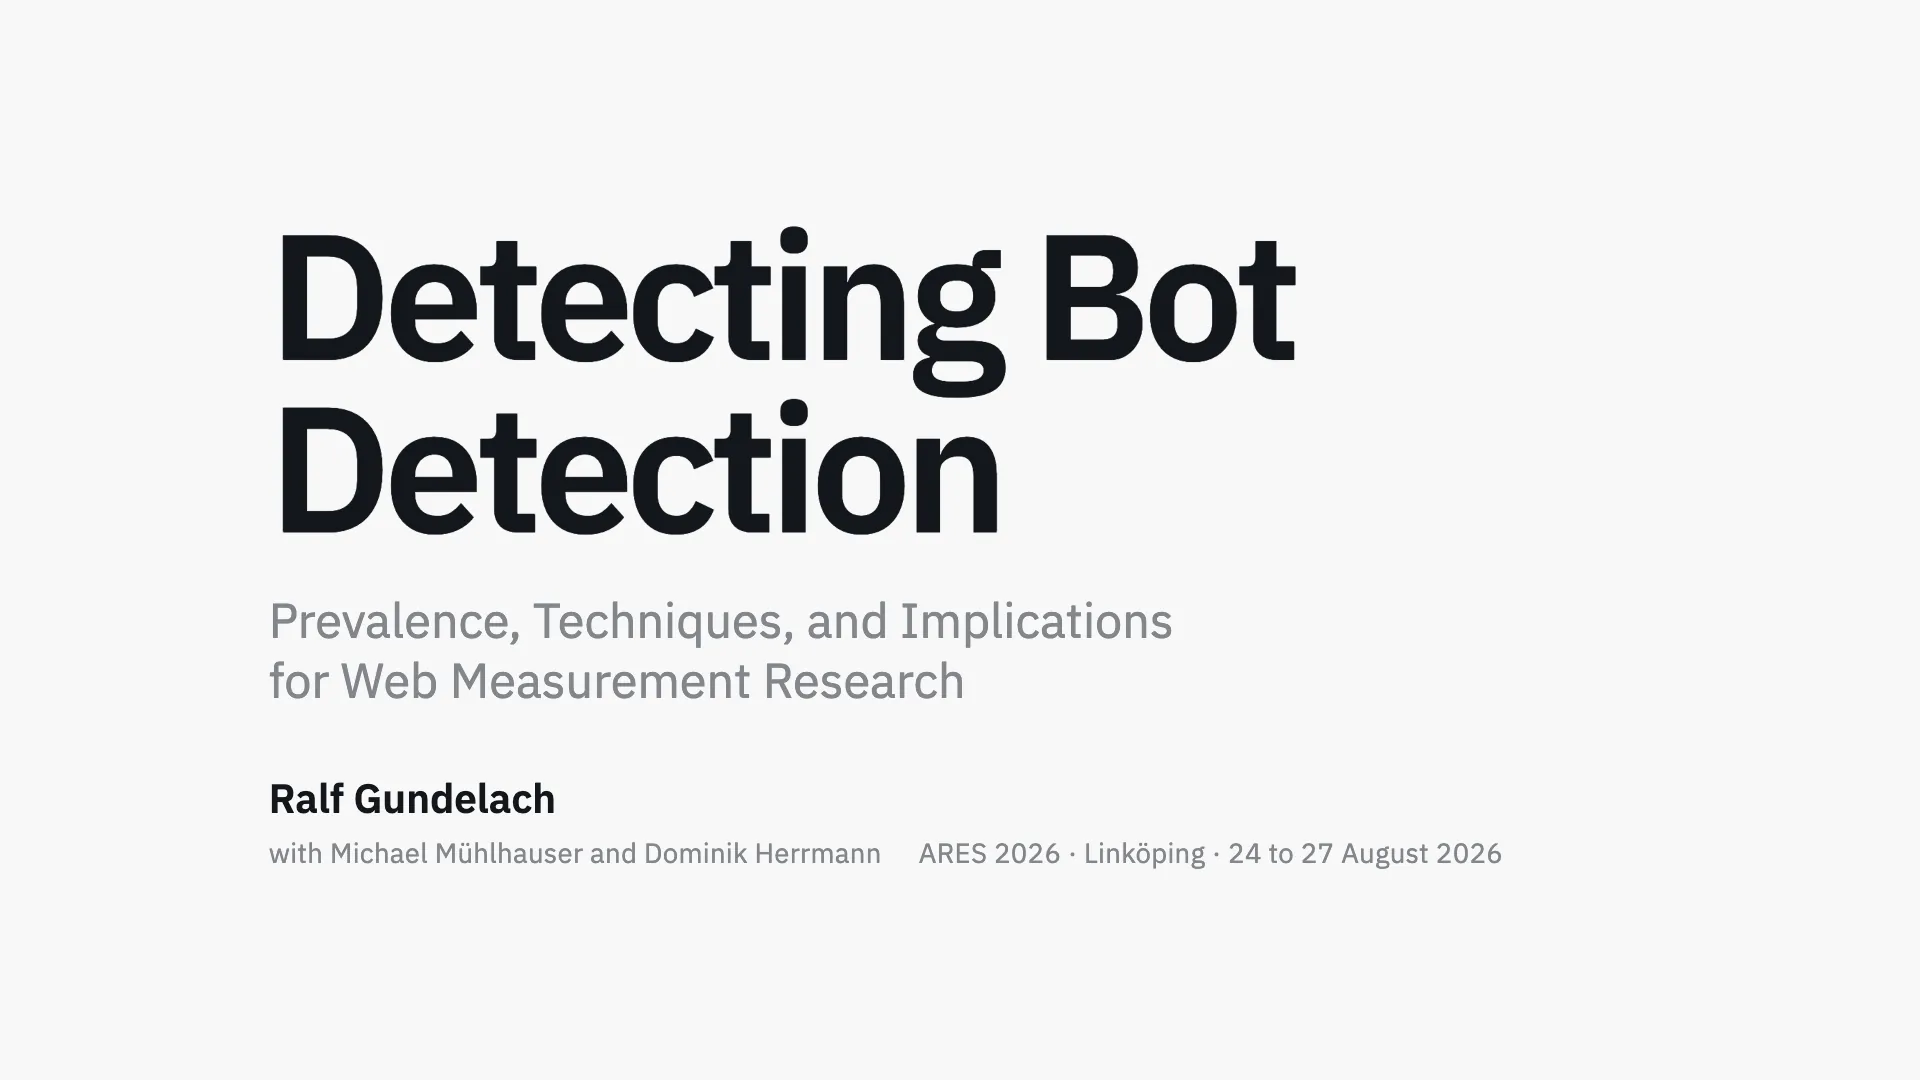
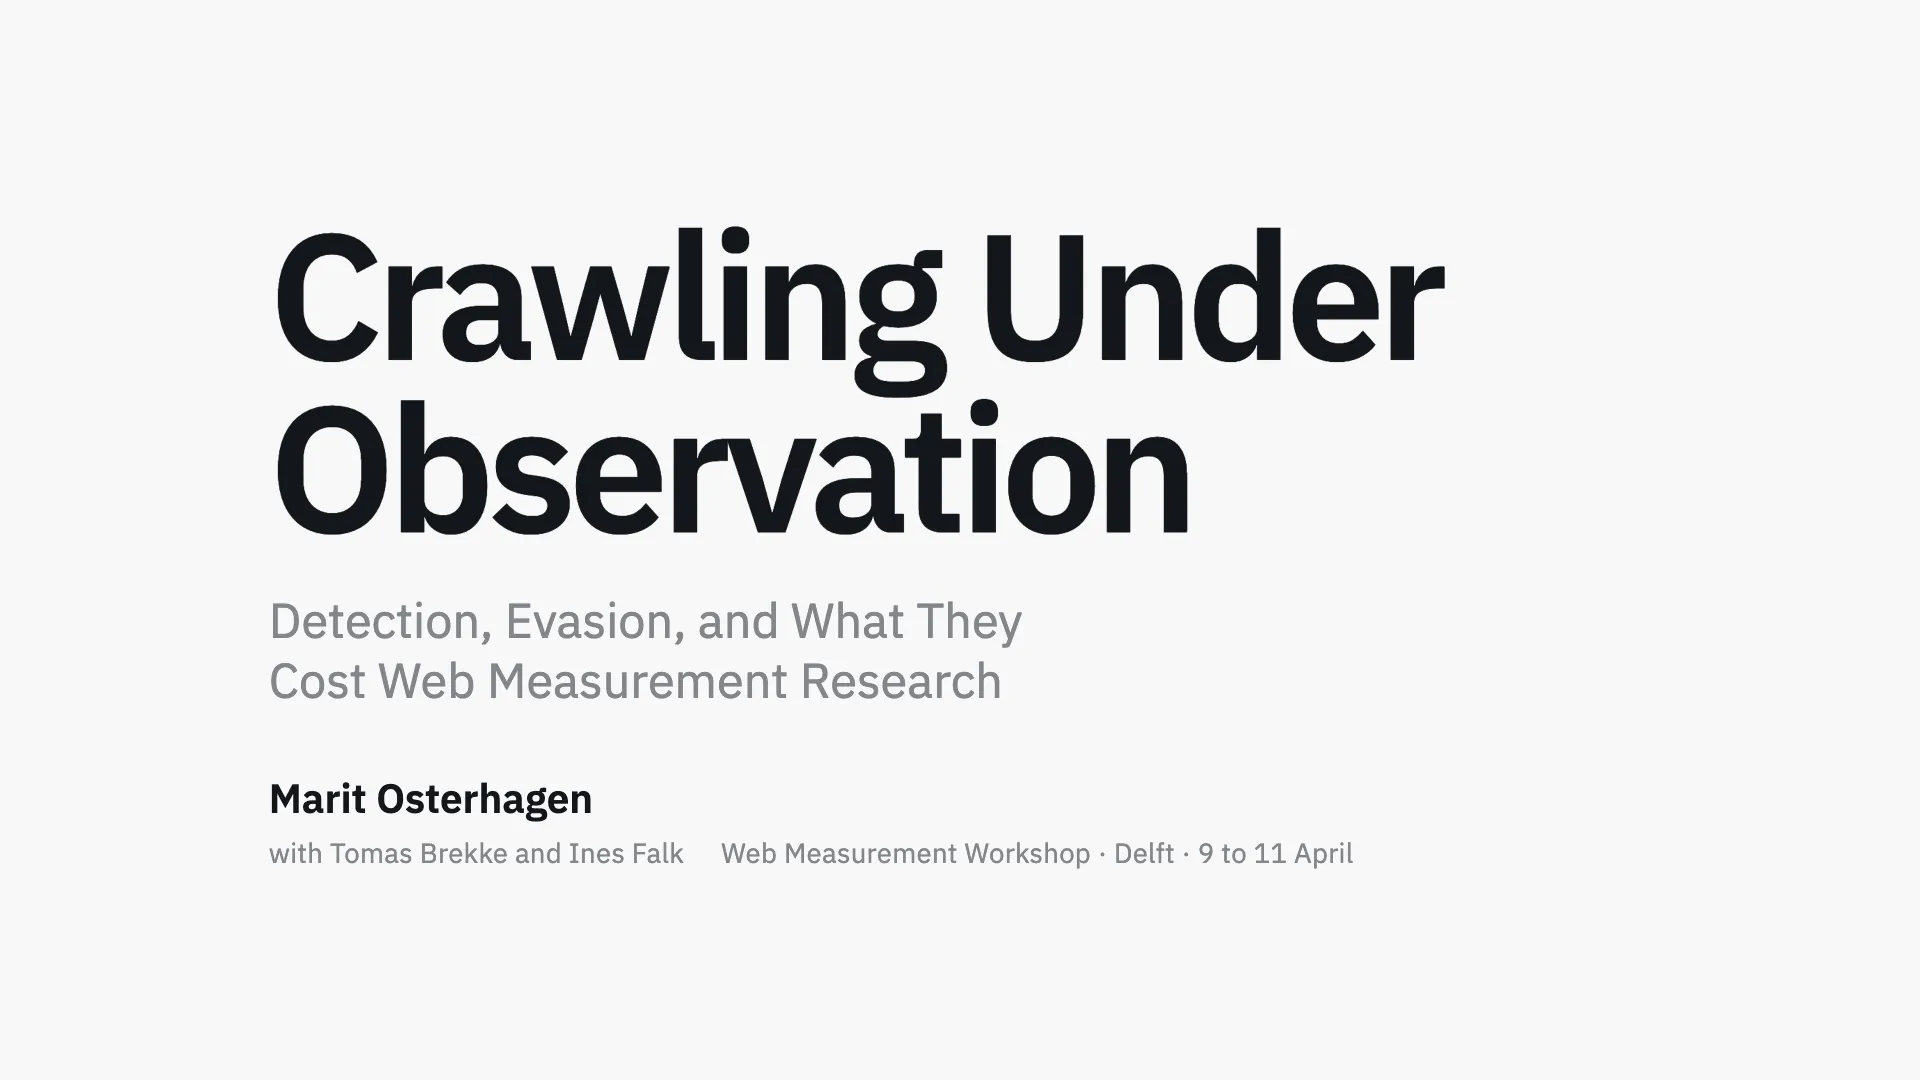
The gallery deck named real people, and the prose around it explained itself to nobody
The cover gallery was shot from a deck carrying a real paper's title and its
three real authors. It is a demo of ten compositions, so the content is
arbitrary and had no reason to be anyone's: the deck is now invented
throughout, and the twelve cover tiles are re-shot. The six divider tiles are
byte-identical, since a divider shows a heading and no credits. The masthead
lede was also a specific fabricated statistic, which read as a finding on a
public page under names that are now fictional; it is a sentence about the
subject instead, with no number in it.

The prose around the gallery kept justifying decisions the reader had not
questioned - "the one question the list asks", "two further settings adjust a
composition rather than replacing it", "a percentage rather than a W:H ratio,
because the shape of the slide is the projector's to decide", "a divider that
can be mistaken for the title slide has failed at the one job it has". All of
it is cut. So is the sentence explaining that the tiles are screenshots taken
by a script at a uniform size, which tells a reader nothing about the covers
they came to look at.

The counts go with them: ten covers, six dividers, seven compositions that
take cover-align, three that take cover-ratio, "compare the third tile above"
- none of it helps, and one of them was wrong (the index said six take
cover-align, the table says seven). The headings lose the counts too.
[…]

Changed region(s): [[0.125, 0.2139, 0.75, 0.5194], [0.125, 0.55, 0.625, 0.6722], [0.125, 0.7028, 0.7812, 0.825]]

diff --git a/docs/site/index.html b/docs/site/index.html
@@ -355,19 +355,14 @@ browser is for pages meant to be looked at.
 <section class="band band-do">
  <div class="wrap">
 
-  <h2 id="covers">Ten ways to open, six ways to change the subject</h2>
+  <h2 id="covers">Title slides and dividers</h2>
 
   <p>A lecture uses one title slide and one divider style, so this page is the
-  only place all of them stand side by side. The default is below; the other
-  nine are one click away.
-  Every tile below is a screenshot of a real slide, taken by
-  <code>docs/site/shoot-gallery.mjs</code> at the same window size and the same
-  zoom as all the others &ndash; none of them was laid out by hand. Click one to see
-  it full size.</p>
+  only place all of them stand side by side. The default is below, the rest one
+  click away. Click a tile to see it full size.</p>
 
-  <p><strong><code>cover:</code></strong> names the title slide. The ten run
-  quiet to loud rather than alphabetically, because the one question the list
-  asks is how much the opening slide should assert itself.</p>
+  <p><strong><code>cover:</code></strong> names the title slide. They are
+  ordered quiet to loud.</p>
 
   <div class="gallery">
     <figure class="shot tile"><img src="img/classic.webp" alt="A title slide with the type set in the lower left third of an otherwise empty slide.">
@@ -375,7 +370,7 @@ browser is for pages meant to be looked at.
   </div>
 
   <details class="setup">
-    <summary>The other nine title slides</summary>
+    <summary>The other title slides</summary>
     <div class="setup-body">
       <div class="gallery">
       <figure class="shot tile"><img src="img/masthead.webp" alt="A title slide with the title at the top edge, a lede in the middle, and the credits under a rule at the bottom.">
@@ -400,26 +395,20 @@ browser is for pages meant to be looked at.
     </div>
   </details>
 
-  <p class="tiny">Two further settings adjust a composition rather than
-  replacing it. <strong><code>cover-align:</code></strong> puts the type high,
-  in the middle or low, on the six compositions that leave it any freedom;
-  <strong><code>cover-ratio:</code></strong> says how much of the slide the
-  picture gets on the three that divide it. It is a percentage rather than a
-  <code>W:H</code> ratio, because the shape of the slide itself is the
-  projector&rsquo;s to decide.</p>
+  <p class="tiny"><strong><code>cover-align:</code></strong> puts the type
+  high, in the middle or low, on the compositions that leave it any freedom.
+  <strong><code>cover-ratio:</code></strong> is a percentage saying how much of
+  the slide the picture gets, on the ones that divide it.</p>
 
   <div class="gallery">
     <figure class="shot tile"><img src="img/stack-bottom.webp" alt="The stack cover with its type block moved down to sit on the bottom margin.">
-      <figcaption><code>cover: stack</code> with <code>cover-align: bottom</code> &ndash; compare the third tile above</figcaption></figure>
+      <figcaption><code>cover: stack</code> with <code>cover-align: bottom</code></figcaption></figure>
     <figure class="shot tile"><img src="img/beside-ratio.webp" alt="The beside cover with the diagram given a wider share of the slide than the default.">
-      <figcaption><code>cover: beside</code> with <code>cover-ratio: 62%</code> &ndash; compare the ninth</figcaption></figure>
+      <figcaption><code>cover: beside</code> with <code>cover-ratio: 62%</code></figcaption></figure>
   </div>
 
   <p><strong><code>section:</code></strong> draws the divider slide a new part
-  of the lecture opens with. Every one of the six is quieter than any title
-  slide: a divider that can be mistaken for the title slide has failed at the
-  one job it has, which is to say <em>a new part starts here, and it is part of
-  the thing you are already in</em>.</p>
+  of the lecture opens with. They are all quieter than any title slide.</p>
 
   <div class="gallery">
     <figure class="shot tile"><img src="img/section-plain.webp" alt="A divider slide showing only the part heading on an empty slide.">
@@ -440,7 +429,7 @@ browser is for pages meant to be looked at.
   closing slide, dividers carrying a quotation or a photograph or a figure,
   items laid out as cards, a full-slide photograph that opens up as you press
   <kbd>Space</kbd> &ndash; is in the <a href="decoration/audience.html">decoration
-  lecture</a>, which is written to be read rather than looked at.</p>
+  lecture</a>.</p>
 
   </div>
 </section>
@@ -457,9 +446,9 @@ browser is for pages meant to be looked at.
   has, with figures from a real course among them, and is the worked example
   behind <a href="figures.html">Figures you write</a>.
   <strong>Decoration</strong> shows every construction that puts something other
-  than a text column on a slide &ndash; the ten title slides, the six dividers, items
-  laid out as cards, a photograph that opens up as you press <kbd>Space</kbd>.
-  All four are in English. The <strong>short example</strong> is one section of a
+  than a text column on a slide &ndash; the title slides, the dividers, items laid
+  out as cards, a photograph that opens up as you press <kbd>Space</kbd>.
+  The <strong>short example</strong> is one section of a
   first-year networking lecture, in German &ndash; eighty-odd lines of Markdown, short
   enough to read end to end beside what it produces
   (<a href="https://github.com/UBA-PSI/psi-slides/blob/main/docs/site/example/source.md">source</a>,
@@ -495,11 +484,10 @@ browser is for pages meant to be looked at.
   </table>
 
   <p class="tiny"><strong>The decoration lecture is where the newer features
-  live</strong> &ndash; the ten title slides, the six part dividers, items laid
-  out as cards, a full-slide photograph that opens up as you advance, and a
-  heading that stays in the printed document but not on the screen. It is
-  published as the projection and the document only: what it shows is what a
-  slide looks like, and those two carry all of it.</p>
+  live</strong> &ndash; the title slides, the part dividers, items laid out as
+  cards, a full-slide photograph that opens up as you advance, and a heading
+  that stays in the printed document but not on the screen. Only the projection
+  and the document are published for it.</p>
 
   <p class="tiny">Start with the projection. Arrow keys move between slides,
   <kbd>Space</kbd> brings in the next part of a slide, <kbd>C</kbd> switches
@@ -709,9 +697,8 @@ browser is for pages meant to be looked at.
 
     <p>Being a preview is not only a question of packaging: the source format
     is still open to change, and a figure you write now may need an edit when
-    it ships. The drawing above is one of thirty-six in
-    <code>lectures/network-security</code>, which is where it was worked out at
-    the size of a real course.</p>
+    it ships. The drawing above comes from
+    <code>lectures/network-security</code>, a real course rebuilt as figures.</p>
   </div>
 
   <p><a href="figures.html">Figures you write</a> is the case for the language

diff --git a/docs/site/index.de.html b/docs/site/index.de.html
@@ -360,18 +360,15 @@ browser is for pages meant to be looked at.
 <section class="band band-do">
  <div class="wrap">
 
-  <h2 id="covers">Zehn Titelfolien, sechs Trenner</h2>
+  <h2 id="covers">Titelfolien und Trenner</h2>
 
   <p>Eine Vorlesung benutzt eine Titelfolie und eine Trennerart, deshalb ist
   diese Seite die einzige Stelle, an der alle nebeneinander stehen. Die
-  Voreinstellung steht unten, die anderen neun sind einen Klick entfernt. Jede Kachel unten ist die Aufnahme
-  einer echten Folie, aufgenommen von <code>docs/site/shoot-gallery.mjs</code>
-  bei derselben Fenstergröße und demselben Zoom wie alle anderen &ndash; keine davon
-  ist von Hand gesetzt. Anklicken zeigt sie in voller Größe.</p>
+  Voreinstellung steht unten, der Rest ist einen Klick entfernt. Anklicken
+  zeigt eine Kachel in voller Größe.</p>
 
-  <p><strong><code>cover:</code></strong> benennt die Titelfolie. Die zehn sind
-  von leise nach laut sortiert und nicht alphabetisch, weil die Liste nur eine
-  Frage stellt: wie sehr soll die erste Folie auftreten.</p>
+  <p><strong><code>cover:</code></strong> benennt die Titelfolie. Sie sind von
+  leise nach laut sortiert.</p>
 
   <div class="gallery">
     <figure class="shot tile"><img src="../img/classic.webp" alt="Eine Titelfolie, deren Satz im unteren linken Drittel einer sonst leeren Folie steht.">
@@ -379,7 +376,7 @@ browser is for pages meant to be looked at.
   </div>
 
   <details class="setup">
-    <summary>Die anderen neun Titelfolien</summary>
+    <summary>Die anderen Titelfolien</summary>
     <div class="setup-body">
       <div class="gallery">
       <figure class="shot tile"><img src="../img/masthead.webp" alt="Eine Titelfolie mit dem Titel an der Oberkante, einem Lead in der Mitte und den Credits unter einer Linie am Fuß.">
@@ -404,26 +401,22 @@ browser is for pages meant to be looked at.
     </div>
   </details>
 
-  <p class="tiny">Zwei weitere Angaben verändern eine Komposition, statt sie zu
-  ersetzen. <strong><code>cover-align:</code></strong> setzt den Satz nach oben,
-  in die Mitte oder nach unten, bei den sechs Kompositionen, die ihm dort
-  Freiheit lassen; <strong><code>cover-ratio:</code></strong> sagt, wie viel der
-  Folie das Bild bei den dreien bekommt, die sie teilen. Es ist ein Prozentsatz
-  und kein <code>W:H</code>-Verhältnis, denn das Seitenverhältnis der Folie
-  selbst gehört dem Beamer.</p>
+  <p class="tiny"><strong><code>cover-align:</code></strong> setzt den Satz
+  nach oben, in die Mitte oder nach unten, bei den Kompositionen, die ihm dort
+  Freiheit lassen. <strong><code>cover-ratio:</code></strong> ist ein
+  Prozentsatz und sagt, wie viel der Folie das Bild bekommt, bei denen, die sie
+  teilen.</p>
 
   <div class="gallery">
     <figure class="shot tile"><img src="../img/stack-bottom.webp" alt="Das stack-Cover, dessen Satzblock nach unten an den Rand gerückt ist.">
-      <figcaption><code>cover: stack</code> mit <code>cover-align: bottom</code> &ndash; vergleiche die dritte Kachel oben</figcaption></figure>
+      <figcaption><code>cover: stack</code> mit <code>cover-align: bottom</code></figcaption></figure>
     <figure class="shot tile"><img src="../img/beside-ratio.webp" alt="Das beside-Cover, bei dem das Diagramm einen breiteren Anteil der Folie bekommt als voreingestellt.">
-      <figcaption><code>cover: beside</code> mit <code>cover-ratio: 62%</code> &ndash; vergleiche die neunte</figcaption></figure>
+      <figcaption><code>cover: beside</code> mit <code>cover-ratio: 62%</code></figcaption></figure>
   </div>
 
   <p><strong><code>section:</code></strong> zeichnet die Trennerfolie, mit der
-  ein neuer Teil der Vorlesung aufmacht. Jede der sechs ist leiser als jede
-  Titelfolie: ein Trenner, den man mit der Titelfolie verwechseln kann, hat bei
-  seiner einzigen Aufgabe versagt &ndash; zu sagen, <em>hier beginnt ein neuer Teil,
-  und er gehört zu dem, worin du schon bist</em>.</p>
+  ein neuer Teil der Vorlesung aufmacht. Sie sind alle leiser als jede
+  Titelfolie.</p>
 
   <div class="gallery">
     <figure class="shot tile"><img src="../img/section-plain.webp" alt="Eine Trennerfolie, die nur die Überschrift des Teils auf leerer Folie zeigt.">
@@ -444,8 +437,7 @@ browser is for pages meant to be looked at.
   <em>kann</em> &ndash; eine Schlussfolie, Trenner mit Zitat, Foto oder Abbildung,
   Inhalte als Karten gesetzt, ein ganzflächiges Foto, das sich auf
   <kbd>Leertaste</kbd> öffnet &ndash; steht in der
-  <a href="../decoration/audience.html">Dekorations-Vorlesung</a>, die zum Lesen
-  geschrieben ist und nicht zum Ansehen.</p>
+  <a href="../decoration/audience.html">Dekorations-Vorlesung</a>.</p>
 
   </div>
 </section>
@@ -463,8 +455,8 @@ browser is for pages meant to be looked at.
   ist das ausgearbeitete Beispiel hinter
   <a href="../figures.html">Figures you write</a>. <strong>Decoration</strong> zeigt
   jede Konstruktion, die etwas anderes als eine Textspalte auf eine Folie bringt:
-  die zehn Titelfolien, die sechs Trenner, Inhalte als Karten gesetzt, ein Foto,
-  das sich mit <kbd>Leertaste</kbd> öffnet. Alle vier sind auf Englisch. Das
+  die Titelfolien, die Trenner, Inhalte als Karten gesetzt, ein Foto, das sich
+  mit <kbd>Leertaste</kbd> öffnet. Das
   <strong>Kurzbeispiel</strong> ist ein Ausschnitt aus einer Netzwerk-Vorlesung
   im ersten Semester, auf Deutsch: gut 80 Zeilen Markdown, kurz genug, um sie
   ganz zu lesen und daneben zu sehen, was daraus wird
@@ -501,12 +493,11 @@ browser is for pages meant to be looked at.
   </table>
 
   <p class="tiny"><strong>In der Dekorations-Vorlesung stecken die neueren
-  Möglichkeiten</strong> &ndash; die zehn Titelfolien, die sechs Trenner für
-  Abschnitte, Aufzählungen als Karten gesetzt, ein bildschirmfüllendes Foto,
-  das sich beim Weiterblättern öffnet, und eine Überschrift, die im gedruckten
-  Dokument steht, aber nicht auf der Leinwand. Sie erscheint nur als Projektion
-  und als Dokument: gezeigt wird, wie eine Folie aussieht, und das tragen diese
-  beiden vollständig.</p>
+  Möglichkeiten</strong> &ndash; die Titelfolien, die Trenner für Abschnitte,
+  Aufzählungen als Karten gesetzt, ein bildschirmfüllendes Foto, das sich beim
+  Weiterblättern öffnet, und eine Überschrift, die im gedruckten Dokument
+  steht, aber nicht auf der Leinwand. Veröffentlicht sind davon nur die
+  Projektion und das Dokument.</p>
 
   <p class="tiny">Am besten mit der Projektion anfangen. Pfeiltasten blättern,
   <kbd>Leertaste</kbd> blendet den nächsten Abschnitt ein, <kbd>C</kbd> schaltet
